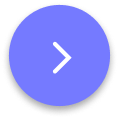
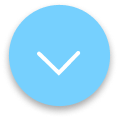
Add button images for day and night seperately

diff --git a/script.js b/script.js
@@ -5,6 +5,7 @@ const iconURL = "https://openweathermap.org/img/wn/";
 const apiKey = "a6996a952d949efcc9c698344f4005c6";
 const weatherEndpoint = "weather";
 const forecastEndpoint = "forecast";
+
 //DOM objects
 const currentTemp = document.getElementById("current-temp");
 const city = document.getElementById("city");
@@ -16,6 +17,7 @@ const button = document.getElementById("button-icon");
 const forecastField = document.getElementById("forecast-field");
 const currentWeatherField = document.getElementById("current-weather-field");
 const buttonField = document.getElementById("button-area");
+const timeIcon = document.getElementById("time-icon-container");
 
 //Functions
 // Function that formats the day or time stamp
@@ -41,11 +43,27 @@ const displayCurrentWeather = () => {
     .then(data => {
       console.log(data);
       city.innerText = data.name;
-      const sunsetTime = formatUnixTime(data.sys.sunset);
-      const sunriseTime = formatUnixTime(data.sys.sunrise);
+      let sunsetTime = data.sys.sunset;
+      let sunriseTime = data.sys.sunrise;
+      const currentTime = data.dt;
+      // compare the current time with the sunset and sunrise time so as to adjust the image and background color
+      if (currentTime > sunsetTime || currentTime < sunsetTime) {
+        timeIcon.src = "./assets/night.png";
+        button.src = "./assets/button-icon-night.png";
+        currentWeatherField.classList.remove("morning");
+        currentWeatherField.classList.add("night");
+      } else {
+        timeIcon.src = timeImgPath.day;
+        currentWeatherField.classList.remove("night");
+        currentWeatherField.classList.add("morning");
+      }
+      sunsetTime = formatUnixTime(sunsetTime);
+      sunriseTime = formatUnixTime(sunriseTime);
+      console.log(sunriseTime, sunsetTime);
       sunrise.innerText = sunriseTime;
       sunset.innerText = sunsetTime;
       currentTemp.innerText = data.main.temp;
+      console.log(currentTime);
       // const maxTemp = data.main.temp_max.toFixed(1);
       // const minTemp = data.main.temp_min.toFixed(1);
       // const iconID = data.weather[0].icon;
@@ -142,6 +160,8 @@ button.addEventListener("click", () => {
   currentWeatherField.classList.toggle("show");
   buttonField.classList.toggle("move");
 });
+
+// Execution
 
 displayCurrentWeather();
 displayWeatherForecast();

diff --git a/style.css b/style.css
@@ -29,45 +29,32 @@ img {
   padding: 2rem 1.5rem;
   display: flex;
   flex-direction: column;
+  border-bottom-left-radius: 50% 30px;
+  border-bottom-right-radius: 50% 30px;
+  /* background: rgb(247, 205, 126);
+  background: linear-gradient(
+    70deg,
+    rgba(250, 176, 37, 1) 0%,
+    rgba(223, 224, 174, 0.9948354341736695) 100%
+  ); */
+}
+
+.night {
+  background: rgb(109, 239, 238);
+  background: linear-gradient(
+    355deg,
+    rgba(109, 239, 238, 1) 0%,
+    rgba(50, 48, 208, 1) 100%
+  );
+}
+
+.morning {
   background: rgb(247, 205, 126);
-  background: rgb(250, 176, 37);
   background: linear-gradient(
     70deg,
     rgba(250, 176, 37, 1) 0%,
     rgba(223, 224, 174, 0.9948354341736695) 100%
   );
-  /* background: linear-gradient(
-    357deg,
-    rgba(247, 205, 126, 1) 0%,
-    rgba(248, 249, 195, 0.9948354341736695) 100%
-  ); */
-  /* background: rgb(202, 245, 79);
-  background: linear-gradient(
-    355deg,
-    rgb(212, 250, 106) 0%,
-    rgb(241, 168, 41) 100%
-  ); */
-  /* background: rgb(202, 245, 79);
-  background: linear-gradient(
-    355deg,
-    rgba(202, 245, 79, 1) 0%,
-    rgba(238, 171, 68, 1) 100%
-  ); */
-  /* night mode color scheme*/
-  /* background: rgb(109, 239, 238);
-  background: linear-gradient(
-    355deg,
-    rgba(109, 239, 238, 1) 0%,
-    rgba(50, 48, 208, 1) 100%
-  ); */
-  /* background: #8589ff;
-  background: linear-gradient(
-    355deg,
-    rgba(232, 233, 255, 1) 0%,
-    rgba(133, 137, 255, 1) 100%
-  ); */
-  border-bottom-left-radius: 50% 30px;
-  border-bottom-right-radius: 50% 30px;
 }
 
 .header > * {
@@ -161,8 +148,7 @@ tr {
 td {
   font-size: 1rem;
   padding: 5px 8px;
-  /* border: 0px; */
-  /* border-spacing: 0; */
+  height: 2.5em;
 }
 
 .day {
@@ -172,9 +158,6 @@ td {
 .weather-range {
   text-align: right;
   text-wrap: nowrap;
-}
-td {
-  height: 2.5em;
 }
 
 .weather-icon {

diff --git a/index.html b/index.html
@@ -22,7 +22,11 @@
         <i class="fa fa-bars"></i>
       </a>
       <div class="time-img-container">
-        <img src="./assets/morning.png" alt="morning icon" />
+        <img
+          id="time-icon-container"
+          src="./assets/morning.png"
+          alt="morning icon"
+        />
       </div>
       <div class="current-weather">
         <div id="temp">
@@ -42,7 +46,7 @@
         <button class="full-view">
           <img
             id="button-icon"
-            src="./assets/button-icon.png"
+            src="./assets/button-icon-day.png"
             alt="button icon"
           />
         </button>
